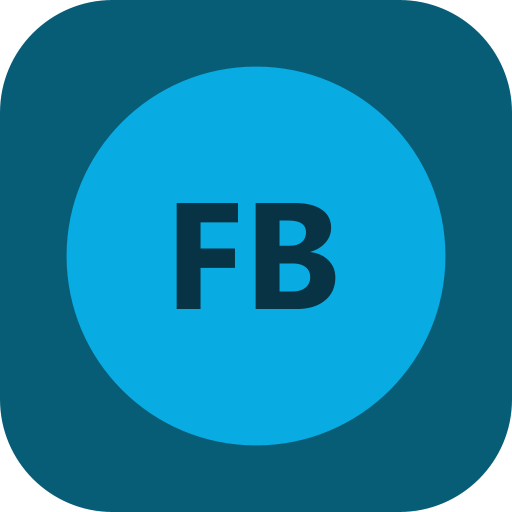
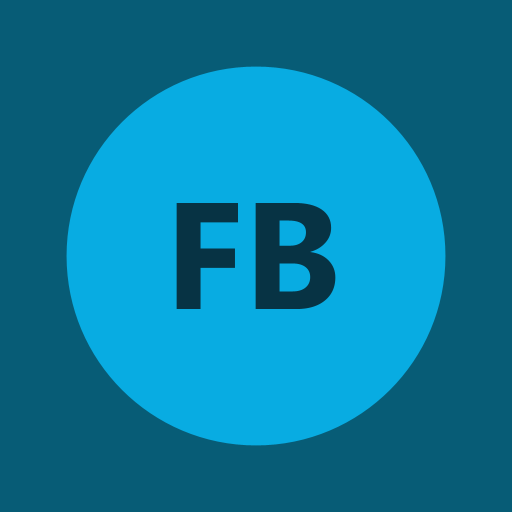
feat(android): trust the Play app signing key and add store assets
Google re-signs Play Store installs with its app signing key, so the
Digital Asset Links file now lists that fingerprint alongside the upload
key. Without it, store installs would open with a browser address bar.
The TWA manifest, its checksum, and the integration test carry both
fingerprints, and the Android changelog records the internal testing
upload.

The Play icon is now a full-bleed opaque square because Play applies its
own corner mask. A 1024x500 feature graphic and a store listing draft,
kept within Play's length limits, are added for the listing.

diff --git a/flexbuddy/src/test/java/com/angel/flexbuddy/DigitalAssetLinksIntegrationTest.java b/flexbuddy/src/test/java/com/angel/flexbuddy/DigitalAssetLinksIntegrationTest.java
@@ -20,6 +20,10 @@ class DigitalAssetLinksIntegrationTest {
     private static final String UPLOAD_KEY_FINGERPRINT =
             "A3:EC:82:A5:7E:FD:B3:07:93:B0:C6:88:E2:32:B1:E9:4B:49:53:69:70:46:54:EC:24:29:AB:6A:84:BF:FE:37";
 
+    /** Google re-signs Play installs with this key, so store installs verify only if it is listed too. */
+    private static final String PLAY_APP_SIGNING_FINGERPRINT =
+            "2F:43:E9:E2:B6:D2:6C:06:BF:80:03:16:E1:0B:34:DB:68:36:14:5B:7E:DA:C0:ED:E8:96:24:08:46:51:6C:6C";
+
     @Autowired
     private MockMvc mockMvc;
 
@@ -32,7 +36,10 @@ class DigitalAssetLinksIntegrationTest {
                         .value("delegate_permission/common.handle_all_urls"))
                 .andExpect(jsonPath("$[0].target.namespace").value("android_app"))
                 .andExpect(jsonPath("$[0].target.package_name").value("com.angel.flexbuddy"))
+                .andExpect(jsonPath("$[0].target.sha256_cert_fingerprints.length()").value(2))
                 .andExpect(jsonPath("$[0].target.sha256_cert_fingerprints[0]")
-                        .value(UPLOAD_KEY_FINGERPRINT));
+                        .value(UPLOAD_KEY_FINGERPRINT))
+                .andExpect(jsonPath("$[0].target.sha256_cert_fingerprints[1]")
+                        .value(PLAY_APP_SIGNING_FINGERPRINT));
     }
 }

diff --git a/android/store-listing.md b/android/store-listing.md
@@ -1,0 +1,82 @@
+# FlexBuddy — Google Play store listing draft
+
+Draft for Stage 7. Every statement below describes functionality that exists in the current
+release. Recheck it against the live app before submitting, and update it with the privacy
+policy and Data safety form if features or data handling change.
+
+## App details
+
+| Field | Value | Limit |
+|---|---|---|
+| App name | `FlexBuddy: Shift Tracker` (24 characters) | 30 |
+| Short description | `Track delivery shifts, earnings, mileage, and expenses in one private place.` (76 characters) | 80 |
+| Category | Productivity (alternative: Finance) | — |
+| Contact email | `flexbuddysupport@gmail.com` | — |
+| Website | `https://flexbuddy.onrender.com` | — |
+| Privacy policy | `https://flexbuddy.onrender.com/privacy` | — |
+| Account deletion | `https://flexbuddy.onrender.com/delete-account` | — |
+
+The handoff guide suggested `FlexBuddy – Delivery Shift Tracker`, but that is 34 characters and
+Play limits app names to 30.
+
+## Full description
+
+```text
+FlexBuddy is a private tracker for independent delivery drivers. Log every block, see what you
+really earned after costs, and plan the week ahead.
+
+TRACK EVERY SHIFT
+• Add shifts from a screenshot: FlexBuddy reads the station, date, times, and pay, and you review
+  every value before saving.
+• Record base pay, tips, and miles for each block.
+• Filter and sort your history by date, station, pay, hours, or hourly rate.
+
+SEE YOUR REAL EARNINGS
+• Totals for earnings, hours worked, average pay per shift, and hourly rate.
+• Estimated net earnings after mileage and expenses, using standard mileage or actual costs.
+• Reports by station, week, month, or year with charts and tables.
+• Export your shift and expense history to CSV.
+
+PLAN YOUR SCHEDULE
+• Add scheduled blocks, then mark them completed, cancelled, or forfeited.
+• A countdown to your next block, a 14-day list, and a monthly calendar.
+• Cancelled blocks can record cancellation pay without adding hours.
+• Subscribe to your schedule from your phone's calendar, or turn on optional reminders.
+
+LOG EXPENSES
+• Fuel, tolls, parking, maintenance, and other costs, optionally linked to a shift.
+
+YOUR DATA STAYS YOURS
+• A private account; your history is visible only to you.
+• Recently deleted items can be restored for 30 days.
+• Download a full backup at any time and restore it later.
+• Delete your account and its data from inside the app.
+• No ads and no analytics.
+
+Works with a connection; your most recent dashboard and schedule stay viewable when you are
+briefly offline.
+
+Earnings, mileage, and net figures are estimates for your own planning and are not tax or
+financial advice.
+
+FlexBuddy is an independent app and is not affiliated with, endorsed by, or sponsored by Amazon
+or any delivery platform.
+```
+
+## Graphics
+
+| Asset | File | Required size | Status |
+|---|---|---|---|
+| App icon | `android/store_icon.png` | 512 × 512 PNG | Full-bleed, opaque; Play applies its own corner mask |
+| Feature graphic | `android/feature_graphic.png` | 1024 × 500 PNG/JPEG | Original FlexBuddy branding only |
+| Phone screenshots | Capture from the Play-installed build | 4–8, 16:9 or 9:16, 320–3840 px sides | To do after Stage 6 |
+
+Recommended screenshots, all captured from the reviewer account's sample data:
+
+1. Dashboard with earnings, hours, and net totals.
+2. Screenshot import review showing the parsed fields.
+3. Schedule with upcoming blocks and the calendar.
+4. Expenses with category totals.
+5. Earnings report (optional).
+
+Do not show third-party logos, other apps' screens, or real personal data in any screenshot.

diff --git a/android/CHANGELOG-android.md b/android/CHANGELOG-android.md
@@ -6,3 +6,8 @@
 - Origin: `https://flexbuddy.onrender.com`
 - Wrapper: Bubblewrap 1.25.0
 - Status: Android shell generated; signed APK and AAB verified with the upload key
+- Uploaded to Internal testing on September 14, 2026 as a draft release named
+  `1 (initial internal test)`; not yet rolled out to testers
+- Play App Signing enabled with a Google-managed key
+- Upload key SHA-256: `A3:EC:82:A5:7E:FD:B3:07:93:B0:C6:88:E2:32:B1:E9:4B:49:53:69:70:46:54:EC:24:29:AB:6A:84:BF:FE:37`
+- Play app signing key SHA-256: `2F:43:E9:E2:B6:D2:6C:06:BF:80:03:16:E1:0B:34:DB:68:36:14:5B:7E:DA:C0:ED:E8:96:24:08:46:51:6C:6C`
